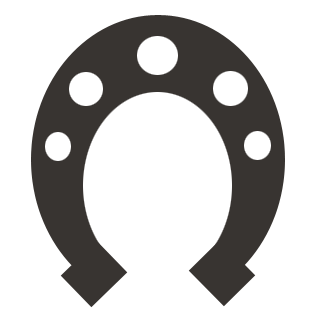
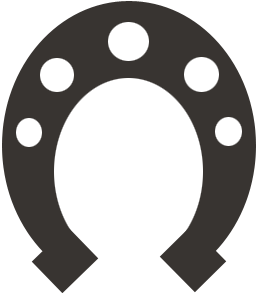
add item in maps

diff --git a/app/sprites/item/item.py b/app/sprites/item/item.py
@@ -2,31 +2,32 @@ import pygame
 import os
 
 from app.settings import *
+from app.sprites.item.itemInfoList import ItemInfoList
 
 
 class Item(pygame.sprite.Sprite):
-    def __init__(self, x, y, image=os.path.join('img', 'Cochon.png')):
+    def __init__(self, x, y, imageName):
         super().__init__()
 
         self.name = "item"
 
         # self.image = pygame.transform.scale(pygame.image.load(image), (TILEDIMX, TILEDIMY))
-        self.image = pygame.image.load(image)
+        listItemInfo = ItemInfoList()
+        if imageName in listItemInfo.item:
+            imageNamePNG = listItemInfo.item[imageName].imageNamePNG
+        else:
+            imageNamePNG = 'cochon.png'
+        linkImage = os.path.join('img', imageNamePNG)
+
+        self.image = pygame.image.load(linkImage)
         self.rect = self.image.get_rect()
         self.rect.x = x
         self.rect.y = y
-
-        self.jumpState = JUMP
-        self.specialState = None
-        self.specialWallSide = None
-        self.shape = None
 
         self.isPhysicsApplied = False
         self.isGravityApplied = False
         self.isFrictionApplied = False
         self.isCollisionApplied = False
-
-        self.linkList = []
 
     def update(self):
         pass

diff --git a/app/sprites/item/itemInfoList.py b/app/sprites/item/itemInfoList.py
@@ -7,14 +7,14 @@ class ItemInfoList:
         self.item = {}
 
         #All item
-        self.item['cupcake'] = ItemInfo('cupcake')
-        self.item['goldBar'] = ItemInfo('goldBar')
-        self.item['horseshoe'] = ItemInfo('horseshoe')
+        self.item['cupcake'] = ItemInfo('cupcake', 'cupcake32x32.png')
+        self.item['goldBar'] = ItemInfo('goldBar', 'Gold32x32.png')
+        self.item['horseshoe'] = ItemInfo('horseshoe', 'Fer.png')
         self.item['bone'] = ItemInfo('bone')
-        self.item['carrot'] = ItemInfo('carrot')
-        self.item['apple'] = ItemInfo('apple')
-        self.item['gun'] = ItemInfo('gun')
-        self.item['pokerChip'] = ItemInfo('pokerChip')
+        self.item['carrot'] = ItemInfo('carrot', 'Carotte.png')
+        self.item['apple'] = ItemInfo('apple', 'Pomme.png')
+        self.item['gun'] = ItemInfo('gun', 'Gun32x32.png')
+        self.item['pokerChip'] = ItemInfo('pokerChip', 'Jetons.png')
         self.item['totem'] = ItemInfo('totem')
 
         # Set Link

diff --git a/app/mapData.py b/app/mapData.py
@@ -38,10 +38,10 @@ class MapData:
                 self.allSprites.add(enemy)
                 self.enemyGroup.add(enemy)
 
-            # if obj.type == "item":
-            #     item = iFactory.create(obj)
-            #     self.allSprites.add(item)
-            #     self.itemGroup.add(item)
+            if obj.type == "item":
+                item = iFactory.create(obj)
+                self.allSprites.add(item)
+                self.itemGroup.add(item)
 
         # Put camera in mapData
         self.camera = pyscroll.PyscrollGroup(map_layer=self.cameraPlayer, default_layer=SPRITE_LAYER)

diff --git a/app/sprites/itemFactory.py b/app/sprites/itemFactory.py
@@ -7,10 +7,7 @@ class ItemFactory:
         pass
 
     def create(self, item):
-        iName = seekAtt(item, "name")
-        if iName == "item":
-            return self.createItemGen(item)
-        return self.createItem(item)
+        iType = seekAtt(item, "type")
+        if iType == "item" and hasattr(item, 'name'):
+            return Item(item.x, item.y, item.name)
 
-    def createItemGen(self, item):
-        return Item(item.x, item.y)

diff --git a/app/sprites/item/itemInfo.py b/app/sprites/item/itemInfo.py
@@ -5,14 +5,14 @@ from app.settings import *
 
 
 class ItemInfo(pygame.sprite.Sprite):
-    def __init__(self,key):
+    def __init__(self, key, imageNamePNG='cochon.png'):
         super().__init__()
 
         self.key = key
         self.name = key
 
         self.image = pygame.Surface((1, 1))
-        self.imageName = 'cochon.png' #will be a variable
+        self.imageNamePNG = imageNamePNG
 
         self.wantedHeight = 32
 

diff --git a/main.py b/main.py
@@ -23,7 +23,7 @@ if __name__ == '__main__':
 
     icon = pygame.transform.scale(pygame.image.load(os.path.join('img', 'dragon.png')), (TILEDIMX, TILEDIMY))
     pygame.display.set_icon(icon)
-    pygame.display.set_caption("I want my dragon!")
+    pygame.display.set_caption("I want my dragon")
 
     # Setup with gameData and the first scene
     sceneHandler = SceneHandler(screen)

diff --git a/app/scene/petScreen/petScreenData.py b/app/scene/petScreen/petScreenData.py
@@ -1,8 +1,6 @@
 import pygame
 
 from app.settings import *
-from app.scene.petScreen.item import Item
-from app.sprites.pet.petList import PetList
 
 from app.messageBox import MessageBox
 

diff --git a/README.md b/README.md
@@ -2,7 +2,7 @@
 
 # Game for the Ludum Dare 35
 
-# I want my dragon!
+# I want my dragon
 
 ![alt tag](https://github.com/Bobsleigh/LD35/blob/master/img/dragon.png)
 
